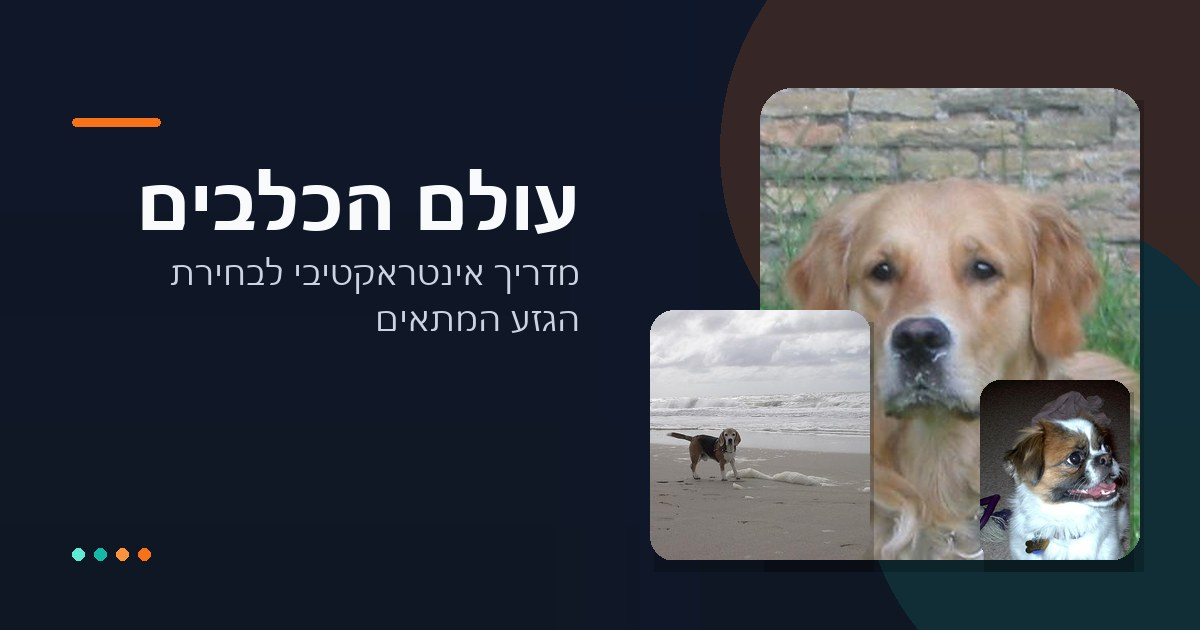
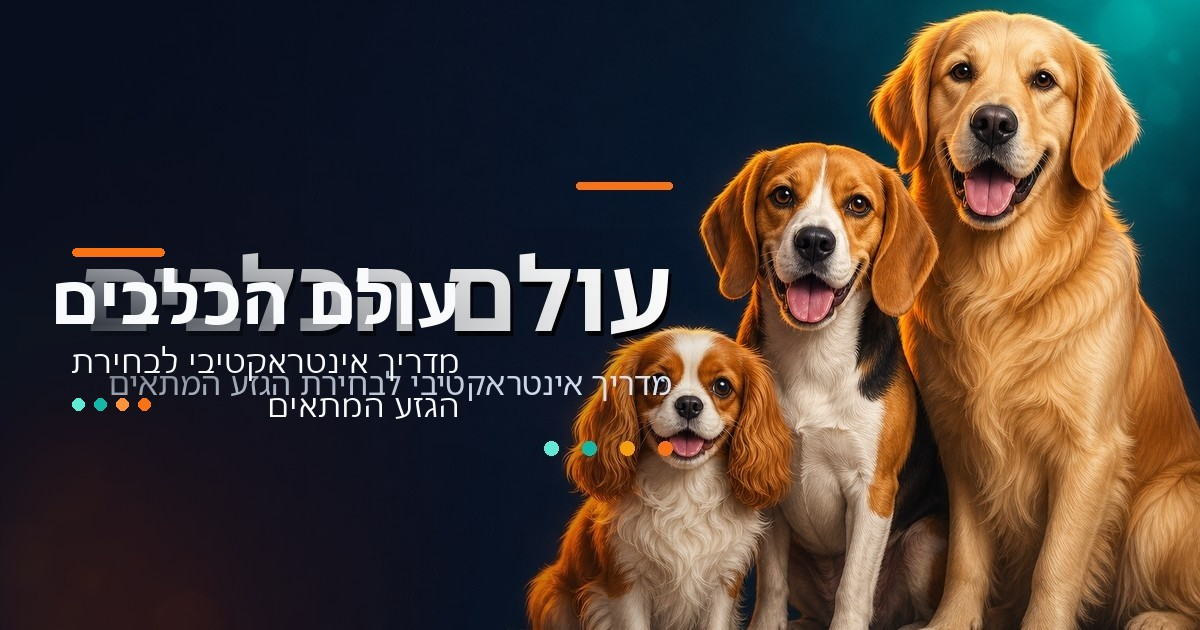
Fix OG share image by overlaying baked text zone and moving typography left.
Uses the original dog photo with a gradient cover instead of inpainting, and bumps the cache key so social previews refresh.

diff --git a/index.html b/index.html
@@ -51,8 +51,8 @@
   <!-- Share preview image: 1200×630 JPEG. Absolute URL so crawlers (which
        don't run JS) can fetch it directly, regardless of the host the
        link was shared from. -->
-  <meta property="og:image" content="https://shenhaveliya.github.io/dog-world/og-image.jpg?v=20260520-layout3" />
-  <meta property="og:image:secure_url" content="https://shenhaveliya.github.io/dog-world/og-image.jpg?v=20260520-layout3" />
+  <meta property="og:image" content="https://shenhaveliya.github.io/dog-world/og-image.jpg?v=20260520-layout8" />
+  <meta property="og:image:secure_url" content="https://shenhaveliya.github.io/dog-world/og-image.jpg?v=20260520-layout8" />
   <meta property="og:image:type" content="image/jpeg" />
   <meta property="og:image:width" content="1200" />
   <meta property="og:image:height" content="630" />
@@ -63,7 +63,7 @@
   <meta name="twitter:card" content="summary_large_image" />
   <meta id="twTitle" name="twitter:title" content="עולם הכלבים – מדריך לבחירת הגזע המתאים" />
   <meta id="twDescription" name="twitter:description" content="מדריך אינטראקטיבי לסוגי כלבים, אופי הגזעים, התאמה למשפחה, וטיפים לבחירת הכלב המתאים לך." />
-  <meta name="twitter:image" content="https://shenhaveliya.github.io/dog-world/og-image.jpg?v=20260520-layout3" />
+  <meta name="twitter:image" content="https://shenhaveliya.github.io/dog-world/og-image.jpg?v=20260520-layout8" />
   <meta id="twImageAlt" name="twitter:image:alt" content="עולם הכלבים – מדריך אינטראקטיבי לבחירת הגזע המתאים" />
 
   <!-- Privacy-friendly analytics. Works after the domain is added in Plausible. -->

diff --git a/scripts/generate-og-image.py b/scripts/generate-og-image.py
@@ -3,24 +3,22 @@
 
 from __future__ import annotations
 
-import io
-import json
-import urllib.request
 from pathlib import Path
 
+import numpy as np
 from bidi.algorithm import get_display
-from PIL import Image, ImageDraw, ImageFont, ImageFilter
+from PIL import Image, ImageDraw, ImageFont
 
 ROOT = Path(__file__).resolve().parents[1]
+REF = Path(__file__).resolve().parent / "og-original-bbe40ef.jpg"
 OUT = ROOT / "og-image.jpg"
 W, H = 1200, 630
 
-# Keep all typography left of this x so it never crosses the dogs.
-TEXT_RIGHT = 580
+TEXT_RIGHT = 460
 TEXT_LEFT = 72
 
-# Breed API paths (dog.ceo uses slashes, not hyphens).
-DOG_BREEDS = ("pekinese", "beagle", "retriever/golden")
+# Wipe original baked typography in this rectangle (left + overlap onto dogs).
+TEXT_ZONE = (0, 228, 700, 418)
 
 
 def load_font(size: int, bold: bool = False) -> ImageFont.FreeTypeFont:
@@ -32,120 +30,66 @@ def load_font(size: int, bold: bool = False) -> ImageFont.FreeTypeFont:
     return ImageFont.load_default()
 
 
-def fetch_image(url: str) -> Image.Image:
-    req = urllib.request.Request(url, headers={"User-Agent": "dog-world-og-generator/1.0"})
-    with urllib.request.urlopen(req, timeout=30) as resp:
-        return Image.open(io.BytesIO(resp.read())).convert("RGBA")
+def left_bg_color(y: int) -> tuple[int, int, int]:
+    """Vertical gradient sampled from the original dark left panel."""
+    t = y / (H - 1)
+    r = int(12 + (16 - 12) * t)
+    g = int(18 + (22 - 18) * t)
+    b = int(34 + (30 - 34) * t)
+    return r, g, b
 
 
-def fetch_breed_image(breed: str) -> Image.Image:
-    api = f"https://dog.ceo/api/breed/{breed}/images/random"
-    req = urllib.request.Request(api, headers={"User-Agent": "dog-world-og-generator/1.0"})
-    with urllib.request.urlopen(req, timeout=30) as resp:
-        url = json.load(resp)["message"]
-    return fetch_image(url)
+def clear_baked_text(canvas: Image.Image) -> None:
+    """Replace the original title/subtitle band with a smooth left-to-right fade."""
+    arr = np.array(canvas, dtype=np.float32)
+    x0, y0, x1, y1 = TEXT_ZONE
+    mid_y = (y0 + y1) / 2
+    half_h = (y1 - y0) / 2
+
+    for y in range(y0, y1 + 1):
+        bg = np.array(left_bg_color(y), dtype=np.float32)
+        y_weight = 1.0 - abs(y - mid_y) / half_h
+        y_weight = max(0.0, min(1.0, y_weight))
+        y_weight = y_weight**0.65
+
+        for x in range(x0, x1 + 1):
+            x_weight = 1.0 - (x - x0) / (x1 - x0)
+            x_weight = max(0.0, min(1.0, x_weight))
+            alpha = (x_weight**1.35) * y_weight
+            if alpha <= 0:
+                continue
+            arr[y, x] = arr[y, x] * (1.0 - alpha) + bg * alpha
+
+    canvas.paste(Image.fromarray(np.clip(arr, 0, 255).astype(np.uint8)))
 
 
-def fit_cover(img: Image.Image, tw: int, th: int) -> Image.Image:
-    sw, sh = img.size
-    scale = max(tw / sw, th / sh)
-    nw, nh = int(sw * scale), int(sh * scale)
-    resized = img.resize((nw, nh), Image.Resampling.LANCZOS)
-    left = (nw - tw) // 2
-    top = (nh - th) // 2
-    return resized.crop((left, top, left + tw, top + th))
+def draw_text(canvas: Image.Image) -> None:
+    draw = ImageDraw.Draw(canvas)
+    title_font = load_font(68, bold=True)
+    sub_font = load_font(32)
 
+    draw.rounded_rectangle((TEXT_LEFT, 248, TEXT_LEFT + 92, 256), radius=4, fill="#f97316")
+    draw.text((TEXT_RIGHT, 250), get_display("עולם הכלבים"), font=title_font, fill="#f8fafc", anchor="ra")
 
-def rounded(img: Image.Image, radius: int) -> Image.Image:
-    mask = Image.new("L", img.size, 0)
-    draw = ImageDraw.Draw(mask)
-    draw.rounded_rectangle((0, 0, img.width, img.height), radius=radius, fill=255)
-    out = img.copy()
-    out.putalpha(mask)
-    return out
+    sub_y = 338
+    for line in ("מדריך אינטראקטיבי לבחירת", "הגזע המתאים"):
+        draw.text((TEXT_RIGHT, sub_y), get_display(line), font=sub_font, fill="#f8fafc", anchor="ra")
+        sub_y += 44
 
-
-def draw_gradient_bg() -> Image.Image:
-    base = Image.new("RGB", (W, H), "#0f172a")
-    draw = ImageDraw.Draw(base)
-    for y in range(H):
-        t = y / H
-        r = int(15 + (17 - 15) * t)
-        g = int(23 + (24 - 23) * t)
-        b = int(42 + (36 - 42) * t)
-        draw.line([(0, y), (W, y)], fill=(r, g, b))
-
-    overlay = Image.new("RGBA", (W, H), (0, 0, 0, 0))
-    odraw = ImageDraw.Draw(overlay)
-    odraw.ellipse((720, -120, 1280, 420), fill=(249, 115, 22, 42))
-    odraw.ellipse((860, 220, 1260, 700), fill=(20, 184, 166, 36))
-    for x in range(TEXT_RIGHT - 40, TEXT_RIGHT + 120):
-        alpha = int(180 * max(0, min(1, (x - (TEXT_RIGHT - 40)) / 120)))
-        odraw.line([(x, 0), (x, H)], fill=(15, 23, 42, alpha), width=1)
-    return Image.alpha_composite(base.convert("RGBA"), overlay)
-
-
-def wrap_text(draw: ImageDraw.ImageDraw, text: str, font: ImageFont.FreeTypeFont, max_width: int) -> list[str]:
-    words = text.split()
-    lines: list[str] = []
-    current = ""
-    for word in words:
-        trial = f"{current} {word}".strip()
-        if draw.textlength(trial, font=font) <= max_width:
-            current = trial
-        else:
-            if current:
-                lines.append(current)
-            current = word
-    if current:
-        lines.append(current)
-    return lines
-
-
-def paste_dog(canvas: Image.Image, breed: str, box: tuple[int, int, int, int], radius: int = 28) -> None:
-    x0, y0, x1, y1 = box
-    tw, th = x1 - x0, y1 - y0
-    dog = fit_cover(fetch_breed_image(breed), tw, th)
-    dog = rounded(dog, radius)
-    shadow = Image.new("RGBA", (tw + 24, th + 24), (0, 0, 0, 0))
-    sh = Image.new("RGBA", (tw, th), (0, 0, 0, 120))
-    sh = sh.filter(ImageFilter.GaussianBlur(12))
-    shadow.paste(sh, (12, 16), sh)
-    canvas.alpha_composite(shadow, (x0 - 8, y0 - 4))
-    canvas.alpha_composite(dog, (x0, y0))
+    dot_x = TEXT_LEFT
+    for color in ("#5eead4", "#14b8a6", "#fb923c", "#f97316"):
+        draw.ellipse((dot_x, 398, dot_x + 12, 410), fill=color)
+        dot_x += 22
 
 
 def main() -> None:
-    canvas = draw_gradient_bg()
-    draw = ImageDraw.Draw(canvas)
+    if not REF.exists():
+        raise SystemExit(f"Missing reference image: {REF}")
 
-    title = "עולם הכלבים"
-
-    title_font = load_font(74, bold=True)
-    sub_font = load_font(34)
-
-    draw.rounded_rectangle((TEXT_LEFT, 118, TEXT_LEFT + 88, 126), radius=4, fill="#f97316")
-    dot_colors = ("#5eead4", "#14b8a6", "#fb923c", "#f97316")
-    dot_x = TEXT_LEFT
-    for color in dot_colors:
-        draw.ellipse((dot_x, 548, dot_x + 12, 560), fill=color)
-        dot_x += 22
-
-    draw.text((TEXT_RIGHT, 150), get_display(title), font=title_font, fill="#f8fafc", anchor="ra")
-
-    subtitle_lines = ["מדריך אינטראקטיבי לבחירת", "הגזע המתאים"]
-    sub_y = 248
-    for line in subtitle_lines:
-        draw.text((TEXT_RIGHT, sub_y), get_display(line), font=sub_font, fill="#cbd5e1", anchor="ra")
-        sub_y += 46
-
-    large, medium, small = DOG_BREEDS[2], DOG_BREEDS[1], DOG_BREEDS[0]
-    paste_dog(canvas, large, (760, 88, 1140, 560), radius=32)
-    paste_dog(canvas, medium, (650, 310, 870, 560), radius=24)
-    paste_dog(canvas, small, (980, 380, 1130, 560), radius=20)
-
-    rgb = canvas.convert("RGB")
-    rgb.save(OUT, format="JPEG", quality=88, optimize=True, progressive=True)
+    canvas = Image.open(REF).convert("RGB")
+    clear_baked_text(canvas)
+    draw_text(canvas)
+    canvas.save(OUT, format="JPEG", quality=90, optimize=True, progressive=True)
     print(f"Wrote {OUT} ({OUT.stat().st_size // 1024} KB)")
 
 
